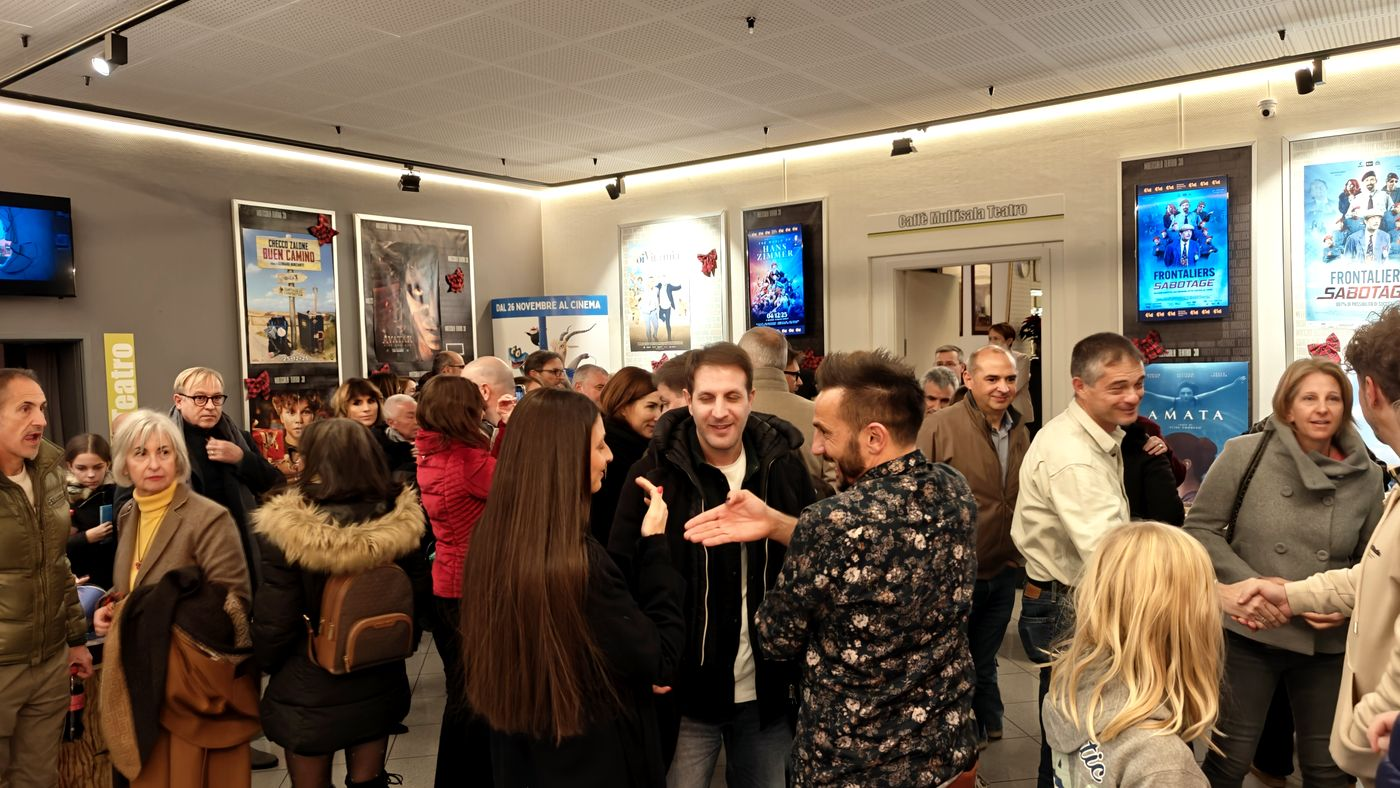
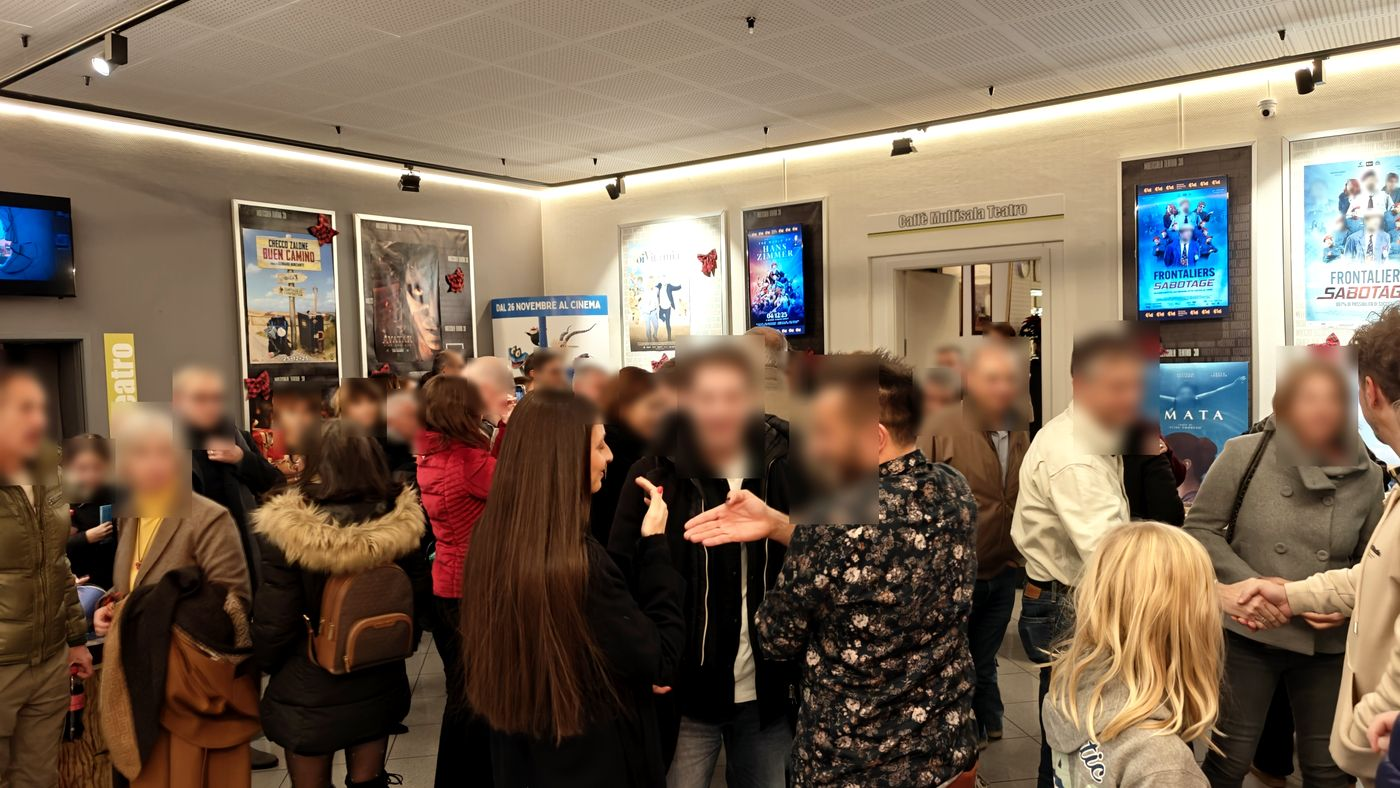
Migliora leggibilità didascalie sale e aggiorna foto "Idee in grande"
Le didascalie di nome/capienza delle sale si spostano fuori
dall'immagine (una riga sottile sotto, non più in overlay) — più
pulite e leggibili anche sulle tile piccole del mosaico a 4 colonne.

In "Idee in grande" aggiunge le foto di allestimento conferenza
(Sala 1908), streaming da piattaforma e buffet; sostituisce la foto
di gruppo nel foyer con una versione a volti sfocati (rilevamento
automatico via YuNet).

diff --git a/index.html b/index.html
@@ -1143,22 +1143,27 @@
     .photo-grid {
       grid-column: 1 / -1;
       display: grid;
-      grid-template-columns: 1fr;
+      grid-template-columns: repeat(auto-fill, minmax(140px, 1fr));
       gap: 12px;
       margin-top: 40px;
     }
 
-    @media (min-width: 620px) {
+    /* Stesso limite del mosaico film: al massimo 4 per riga su desktop,
+       invece di tante piccole */
+    @media (min-width: 921px) {
       .photo-grid {
-        grid-template-columns: repeat(2, 1fr);
+        grid-template-columns: repeat(4, 1fr);
       }
     }
 
     .photo-grid figure {
+      margin: 0;
+    }
+
+    .photo-media {
       position: relative;
       aspect-ratio: 3 / 2;
       overflow: hidden;
-      margin: 0;
     }
 
     .photo-grid img {
@@ -1185,25 +1190,21 @@
       pointer-events: none;
     }
 
+    /* Fuori dalla foto, non più in overlay — più pulito e leggibile anche
+       su tile piccole */
     .photo-caption {
-      position: absolute;
-      left: 18px;
-      bottom: 14px;
-      z-index: 2;
-      color: var(--white);
-      font-weight: 800;
-      text-transform: uppercase;
-      letter-spacing: .08em;
-      font-size: .82rem;
+      display: block;
+      margin-top: 9px;
+      color: var(--muted);
+      font-size: .72rem;
+      letter-spacing: .03em;
     }
 
-    .photo-caption span {
-      display: block;
-      margin-top: 3px;
-      color: #ccc;
-      font-weight: 600;
-      letter-spacing: .06em;
-      font-size: .68rem;
+    .photo-caption strong {
+      color: var(--white);
+      font-weight: 700;
+      text-transform: uppercase;
+      letter-spacing: .05em;
     }
 
     .year {
@@ -3074,12 +3075,16 @@
 
         <div class="photo-grid reveal delay-3">
           <figure>
-            <img src="img/evento-1.jpg" alt="Incontro con gli ospiti dopo la proiezione" loading="lazy">
-            <div class="photo-gradient"></div>
+            <div class="photo-media">
+              <img src="img/evento-1.jpg" alt="Incontro con gli ospiti dopo la proiezione" loading="lazy">
+              <div class="photo-gradient"></div>
+            </div>
           </figure>
           <figure>
-            <img src="img/evento-3.jpg" alt="Sala piena per una proiezione speciale" loading="lazy">
-            <div class="photo-gradient"></div>
+            <div class="photo-media">
+              <img src="img/evento-3.jpg" alt="Sala piena per una proiezione speciale" loading="lazy">
+              <div class="photo-gradient"></div>
+            </div>
           </figure>
         </div>
       </div>
@@ -3141,12 +3146,40 @@
 
         <div class="photo-grid reveal delay-3">
           <figure>
-            <img src="img/evento-conferenza.jpg" alt="Conferenza aziendale in sala" loading="lazy">
-            <div class="photo-gradient"></div>
+            <div class="photo-media">
+              <img src="img/evento-conferenza.jpg" alt="Conferenza aziendale in sala" loading="lazy">
+              <div class="photo-gradient"></div>
+            </div>
           </figure>
           <figure>
-            <img src="img/evento-4.jpg" alt="Preparazione popcorn per un evento" loading="lazy">
-            <div class="photo-gradient"></div>
+            <div class="photo-media">
+              <img src="img/evento-palco2.jpg" alt="Allestimento conferenza in Sala 1908" loading="lazy">
+              <div class="photo-gradient"></div>
+            </div>
+          </figure>
+          <figure>
+            <div class="photo-media">
+              <img src="img/evento-netflix.jpg" alt="Streaming da piattaforma in sala" loading="lazy">
+              <div class="photo-gradient"></div>
+            </div>
+          </figure>
+          <figure>
+            <div class="photo-media">
+              <img src="img/evento-2.jpg" alt="Buffet per un evento aziendale" loading="lazy">
+              <div class="photo-gradient"></div>
+            </div>
+          </figure>
+          <figure>
+            <div class="photo-media">
+              <img src="img/evento-5.jpg" alt="Ospiti nel foyer durante un evento" loading="lazy">
+              <div class="photo-gradient"></div>
+            </div>
+          </figure>
+          <figure>
+            <div class="photo-media">
+              <img src="img/evento-4.jpg" alt="Preparazione popcorn per un evento" loading="lazy">
+              <div class="photo-gradient"></div>
+            </div>
           </figure>
         </div>
       </div>
@@ -3198,24 +3231,32 @@
 
         <div class="photo-grid reveal delay-3">
           <figure>
-            <img src="img/sala-teatro.jpg" alt="Sala Teatro" loading="lazy">
-            <div class="photo-gradient"></div>
-            <figcaption class="photo-caption">Teatro <span>140 posti</span></figcaption>
+            <div class="photo-media">
+              <img src="img/sala-teatro.jpg" alt="Sala Teatro" loading="lazy">
+              <div class="photo-gradient"></div>
+            </div>
+            <figcaption class="photo-caption"><strong>Teatro</strong> · 140 posti</figcaption>
           </figure>
           <figure>
-            <img src="img/sala-ciak.jpg" alt="Sala Ciak" loading="lazy">
-            <div class="photo-gradient"></div>
-            <figcaption class="photo-caption">Ciak <span>96 posti</span></figcaption>
+            <div class="photo-media">
+              <img src="img/sala-ciak.jpg" alt="Sala Ciak" loading="lazy">
+              <div class="photo-gradient"></div>
+            </div>
+            <figcaption class="photo-caption"><strong>Ciak</strong> · 96 posti</figcaption>
           </figure>
           <figure>
-            <img src="img/sala-1908.jpg" alt="Sala 1908" loading="lazy">
-            <div class="photo-gradient"></div>
-            <figcaption class="photo-caption">1908 <span>40 posti</span></figcaption>
+            <div class="photo-media">
+              <img src="img/sala-1908.jpg" alt="Sala 1908" loading="lazy">
+              <div class="photo-gradient"></div>
+            </div>
+            <figcaption class="photo-caption"><strong>1908</strong> · 40 posti</figcaption>
           </figure>
           <figure>
-            <img src="img/sala-mignon.jpg" alt="Sala Mignon" loading="lazy">
-            <div class="photo-gradient"></div>
-            <figcaption class="photo-caption">Mignon <span>29 posti</span></figcaption>
+            <div class="photo-media">
+              <img src="img/sala-mignon.jpg" alt="Sala Mignon" loading="lazy">
+              <div class="photo-gradient"></div>
+            </div>
+            <figcaption class="photo-caption"><strong>Mignon</strong> · 29 posti</figcaption>
           </figure>
         </div>
       </div>
